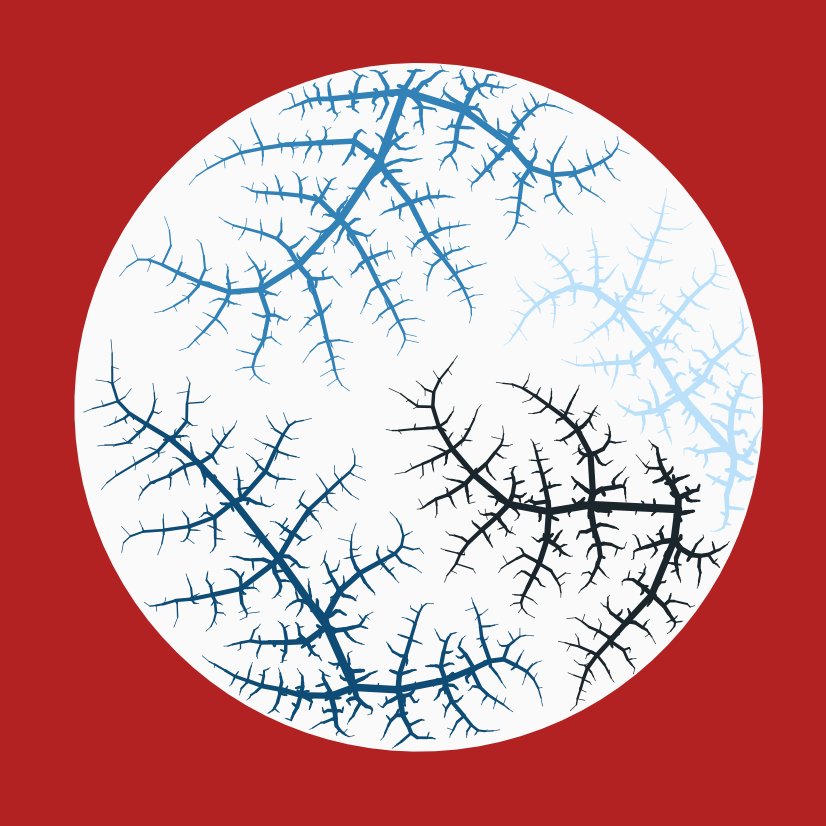
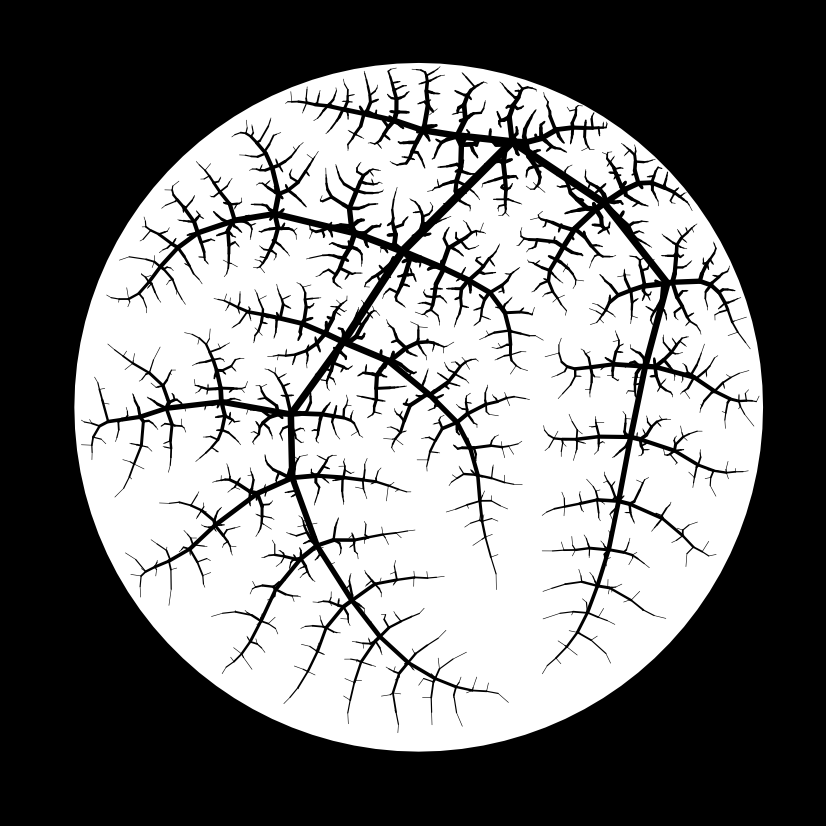
Use cpp for circle in petri

diff --git a/src/canvas_petri.cpp b/src/canvas_petri.cpp
@@ -1,0 +1,148 @@
+// Copyright (C) 2021-2022 Koen Derks
+
+// This program is free software: you can redistribute it and/or modify
+// it under the terms of the GNU General Public License as published by
+// the Free Software Foundation, either version 3 of the License, or
+// (at your option) any later version.
+
+// This program is distributed in the hope that it will be useful,
+// but WITHOUT ANY WARRANTY; without even the implied warranty of
+// MERCHANTABILITY or FITNESS FOR A PARTICULAR PURPOSE.  See the
+// GNU General Public License for more details.
+
+// You should have received a copy of the GNU General Public License
+// along with this program.  If not, see <http://www.gnu.org/licenses/>.
+
+#include <RcppArmadillo.h>
+#include <iostream>
+#include <algorithm>
+#include <vector>
+#include <cstdlib>
+#include <iterator>
+
+// [[Rcpp::depends(RcppArmadillo)]]
+
+// [[Rcpp::export]]
+Rcpp::IntegerVector get_closest_node(Rcpp::NumericVector attractor_x,
+                                     Rcpp::NumericVector attractor_y,
+                                     Rcpp::NumericVector nodes_x,
+                                     Rcpp::NumericVector nodes_y,
+                                     double attraction_distance) {
+  int n_attractors = attractor_x.length();
+  int n_nodes = nodes_x.length();
+  Rcpp::IntegerVector X;
+  for (int i = 0; i < n_attractors; i++) {
+    int min_dist_node = 0;
+    double min_dist = attraction_distance;
+    for (int j = 0; j < n_nodes; j++) {
+      Rcpp::checkUserInterrupt();
+      double dist = abs(sqrt(pow(attractor_x[i] - nodes_x[j], 2) + pow(attractor_y[i] - nodes_y[j], 2)));
+      if (dist < min_dist) {
+        min_dist = dist;
+        min_dist_node = j + 1;
+      }
+    }
+    X.insert(i, min_dist_node);
+  }
+  return X;
+}
+
+// [[Rcpp::export]]
+Rcpp::DataFrame kill_attractors(Rcpp::NumericVector attractor_x,
+                                Rcpp::NumericVector attractor_y,
+                                Rcpp::NumericVector nodes_x,
+                                Rcpp::NumericVector nodes_y,
+                                double kill_distance) {
+  int n_attractors = attractor_x.length();
+  int n_nodes = nodes_x.length();
+  Rcpp::IntegerVector kills;
+  Rcpp::NumericVector new_attractor_x;
+  Rcpp::NumericVector new_attractor_y;
+  for (int i = 0; i < n_attractors; i++) {
+    int c = 0;
+    for (int j = 0; j < n_nodes; j++) {
+      Rcpp::checkUserInterrupt();
+      double dist = abs(sqrt(pow(attractor_x[i] - nodes_x[j], 2) + pow(attractor_y[i] - nodes_y[j], 2)));
+      if (dist <= kill_distance) {
+        c++;
+      }
+    }
+    if (c == 0) {
+      new_attractor_x.push_back(attractor_x[i]);
+      new_attractor_y.push_back(attractor_y[i]);
+    }
+  }
+  Rcpp::DataFrame X = Rcpp::DataFrame::create(Rcpp::Named("x") = new_attractor_x,
+                                              Rcpp::Named("y") = new_attractor_y);
+  return X;
+}
+
+// [[Rcpp::export]]
+Rcpp::DataFrame draw_circle(double center_x,
+                            double center_y,
+                            double diameter,
+                            int n) {
+  double r = diameter / 2;
+  Rcpp::DoubleVector x;
+  Rcpp::DoubleVector y;
+  double t = 0;
+  double xnew;
+  double ynew;
+  for (int i = 0; i < n; i++) {
+    Rcpp::checkUserInterrupt();
+    xnew = center_x + r * cos(t);
+    ynew = center_y + r * sin(t);
+    x.push_back(xnew);
+    y.push_back(ynew);
+    t = t + (2 * M_PI) / n;
+  }
+  Rcpp::DataFrame circle = Rcpp::DataFrame::create(Rcpp::Named("x") = x,
+                                                   Rcpp::Named("y") = y);
+  return circle;
+}
+
+Rcpp::IntegerVector my_which_max(Rcpp::LogicalVector x) {
+  double current_max = x[0];
+  int n = x.size();
+  std::vector< int > y;
+  y.push_back(0);
+  int i;
+  for(i = 1; i < n; ++i) {
+    Rcpp::checkUserInterrupt();
+    double currentx = x[i];
+    if(currentx > current_max) {
+      y.clear();
+      current_max = currentx;
+      y.push_back(i);
+    } else if (currentx == current_max) {
+      y.push_back(i);
+    }
+  }
+  Rcpp::IntegerVector X(y.begin(), y.end());
+  return X;
+}
+
+// [[Rcpp::export]]
+Rcpp::DataFrame get_directions(Rcpp::NumericVector attractor_x,
+                               Rcpp::NumericVector attractor_y,
+                               Rcpp::NumericVector nodes_x,
+                               Rcpp::NumericVector nodes_y,
+                               Rcpp::IntegerVector closest_nodes) {
+  Rcpp::NumericVector directionx;
+  Rcpp::NumericVector directiony;
+  Rcpp::LogicalVector indexes;
+  for (int i = 0; i < nodes_x.length(); i++) {
+    Rcpp::checkUserInterrupt();
+    indexes = closest_nodes == (i + 1);
+    Rcpp::IntegerVector indexes2 = my_which_max(indexes);
+    Rcpp::NumericVector nodex = attractor_x[indexes];
+    double dirx = mean(nodex - nodes_x[i]);
+    directionx.push_back(dirx);
+    Rcpp::NumericVector nodey = attractor_y[indexes];
+    double diry = mean(nodey - nodes_y[i]);
+    directiony.push_back(diry);
+  }
+  Rcpp::DataFrame X = Rcpp::DataFrame::create(Rcpp::Named("xend") = directionx,
+                                              Rcpp::Named("yend") = directiony);
+  return X;
+}

diff --git a/src/RcppExports.cpp b/src/RcppExports.cpp
@@ -113,6 +113,65 @@ BEGIN_RCPP
     return rcpp_result_gen;
 END_RCPP
 }
+// get_closest_node
+Rcpp::IntegerVector get_closest_node(Rcpp::NumericVector attractor_x, Rcpp::NumericVector attractor_y, Rcpp::NumericVector nodes_x, Rcpp::NumericVector nodes_y, double attraction_distance);
+RcppExport SEXP _aRtsy_get_closest_node(SEXP attractor_xSEXP, SEXP attractor_ySEXP, SEXP nodes_xSEXP, SEXP nodes_ySEXP, SEXP attraction_distanceSEXP) {
+BEGIN_RCPP
+    Rcpp::RObject rcpp_result_gen;
+    Rcpp::RNGScope rcpp_rngScope_gen;
+    Rcpp::traits::input_parameter< Rcpp::NumericVector >::type attractor_x(attractor_xSEXP);
+    Rcpp::traits::input_parameter< Rcpp::NumericVector >::type attractor_y(attractor_ySEXP);
+    Rcpp::traits::input_parameter< Rcpp::NumericVector >::type nodes_x(nodes_xSEXP);
+    Rcpp::traits::input_parameter< Rcpp::NumericVector >::type nodes_y(nodes_ySEXP);
+    Rcpp::traits::input_parameter< double >::type attraction_distance(attraction_distanceSEXP);
+    rcpp_result_gen = Rcpp::wrap(get_closest_node(attractor_x, attractor_y, nodes_x, nodes_y, attraction_distance));
+    return rcpp_result_gen;
+END_RCPP
+}
+// kill_attractors
+Rcpp::DataFrame kill_attractors(Rcpp::NumericVector attractor_x, Rcpp::NumericVector attractor_y, Rcpp::NumericVector nodes_x, Rcpp::NumericVector nodes_y, double kill_distance);
+RcppExport SEXP _aRtsy_kill_attractors(SEXP attractor_xSEXP, SEXP attractor_ySEXP, SEXP nodes_xSEXP, SEXP nodes_ySEXP, SEXP kill_distanceSEXP) {
+BEGIN_RCPP
+    Rcpp::RObject rcpp_result_gen;
+    Rcpp::RNGScope rcpp_rngScope_gen;
+    Rcpp::traits::input_parameter< Rcpp::NumericVector >::type attractor_x(attractor_xSEXP);
+    Rcpp::traits::input_parameter< Rcpp::NumericVector >::type attractor_y(attractor_ySEXP);
+    Rcpp::traits::input_parameter< Rcpp::NumericVector >::type nodes_x(nodes_xSEXP);
+    Rcpp::traits::input_parameter< Rcpp::NumericVector >::type nodes_y(nodes_ySEXP);
+    Rcpp::traits::input_parameter< double >::type kill_distance(kill_distanceSEXP);
+    rcpp_result_gen = Rcpp::wrap(kill_attractors(attractor_x, attractor_y, nodes_x, nodes_y, kill_distance));
+    return rcpp_result_gen;
+END_RCPP
+}
+// draw_circle
+Rcpp::DataFrame draw_circle(double center_x, double center_y, double diameter, int n);
+RcppExport SEXP _aRtsy_draw_circle(SEXP center_xSEXP, SEXP center_ySEXP, SEXP diameterSEXP, SEXP nSEXP) {
+BEGIN_RCPP
+    Rcpp::RObject rcpp_result_gen;
+    Rcpp::RNGScope rcpp_rngScope_gen;
+    Rcpp::traits::input_parameter< double >::type center_x(center_xSEXP);
+    Rcpp::traits::input_parameter< double >::type center_y(center_ySEXP);
+    Rcpp::traits::input_parameter< double >::type diameter(diameterSEXP);
+    Rcpp::traits::input_parameter< int >::type n(nSEXP);
+    rcpp_result_gen = Rcpp::wrap(draw_circle(center_x, center_y, diameter, n));
+    return rcpp_result_gen;
+END_RCPP
+}
+// get_directions
+Rcpp::DataFrame get_directions(Rcpp::NumericVector attractor_x, Rcpp::NumericVector attractor_y, Rcpp::NumericVector nodes_x, Rcpp::NumericVector nodes_y, Rcpp::IntegerVector closest_nodes);
+RcppExport SEXP _aRtsy_get_directions(SEXP attractor_xSEXP, SEXP attractor_ySEXP, SEXP nodes_xSEXP, SEXP nodes_ySEXP, SEXP closest_nodesSEXP) {
+BEGIN_RCPP
+    Rcpp::RObject rcpp_result_gen;
+    Rcpp::RNGScope rcpp_rngScope_gen;
+    Rcpp::traits::input_parameter< Rcpp::NumericVector >::type attractor_x(attractor_xSEXP);
+    Rcpp::traits::input_parameter< Rcpp::NumericVector >::type attractor_y(attractor_ySEXP);
+    Rcpp::traits::input_parameter< Rcpp::NumericVector >::type nodes_x(nodes_xSEXP);
+    Rcpp::traits::input_parameter< Rcpp::NumericVector >::type nodes_y(nodes_ySEXP);
+    Rcpp::traits::input_parameter< Rcpp::IntegerVector >::type closest_nodes(closest_nodesSEXP);
+    rcpp_result_gen = Rcpp::wrap(get_directions(attractor_x, attractor_y, nodes_x, nodes_y, closest_nodes));
+    return rcpp_result_gen;
+END_RCPP
+}
 // iterate_phyllotaxis
 Rcpp::DataFrame iterate_phyllotaxis(int iter, double a, double p);
 RcppExport SEXP _aRtsy_iterate_phyllotaxis(SEXP iterSEXP, SEXP aSEXP, SEXP pSEXP) {
@@ -258,6 +317,10 @@ static const R_CallMethodDef CallEntries[] = {
     {"_aRtsy_draw_collatz", (DL_FUNC) &_aRtsy_draw_collatz, 4},
     {"_aRtsy_iterate_flow", (DL_FUNC) &_aRtsy_iterate_flow, 8},
     {"_aRtsy_iterate_maze", (DL_FUNC) &_aRtsy_iterate_maze, 3},
+    {"_aRtsy_get_closest_node", (DL_FUNC) &_aRtsy_get_closest_node, 5},
+    {"_aRtsy_kill_attractors", (DL_FUNC) &_aRtsy_kill_attractors, 5},
+    {"_aRtsy_draw_circle", (DL_FUNC) &_aRtsy_draw_circle, 4},
+    {"_aRtsy_get_directions", (DL_FUNC) &_aRtsy_get_directions, 5},
     {"_aRtsy_iterate_phyllotaxis", (DL_FUNC) &_aRtsy_iterate_phyllotaxis, 3},
     {"_aRtsy_draw_planet", (DL_FUNC) &_aRtsy_draw_planet, 11},
     {"_aRtsy_draw_polylines", (DL_FUNC) &_aRtsy_draw_polylines, 5},

diff --git a/README.md b/README.md
@@ -215,12 +215,12 @@ canvas_maze(color = "#fafafa")
 
 #### Petridishes
 
-This artwork draws petridishes on the basis of a space colonization algorithm. The current implementation, however, is very slow. A faster implementation is hopefully coming soon.
+This artwork uses a space colonization algorithm (excellently described in [this blogpost](https://medium.com/@jason.webb/space-colonization-algorithm-in-javascript-6f683b743dc5) by Jason Webb) to draw Petri dish colonies. If you add a hole in the middle of the Petri dish, the colony grows around the hole.
 
 <p align="center">
-  <img src='https://github.com/koenderks/aRtsy/raw/development/png/petris/2022-04-05.png' width='250' height='250'>
-  <img src='https://github.com/koenderks/aRtsy/raw/development/png/petris/2022-04-06.png' width='250' height='250'>
   <img src='https://github.com/koenderks/aRtsy/raw/development/png/petris/2022-04-04.png' width='250' height='250'>
+  <img src='https://github.com/koenderks/aRtsy/raw/development/png/petris/2022-04-06.png' width='250' height='250'>
+  <img src='https://github.com/koenderks/aRtsy/raw/development/png/petris/2022-04-05.png' width='250' height='250'>
 </p>
 
 You can use the `canvas_petri()` function to make your own artwork using this algorithm.
